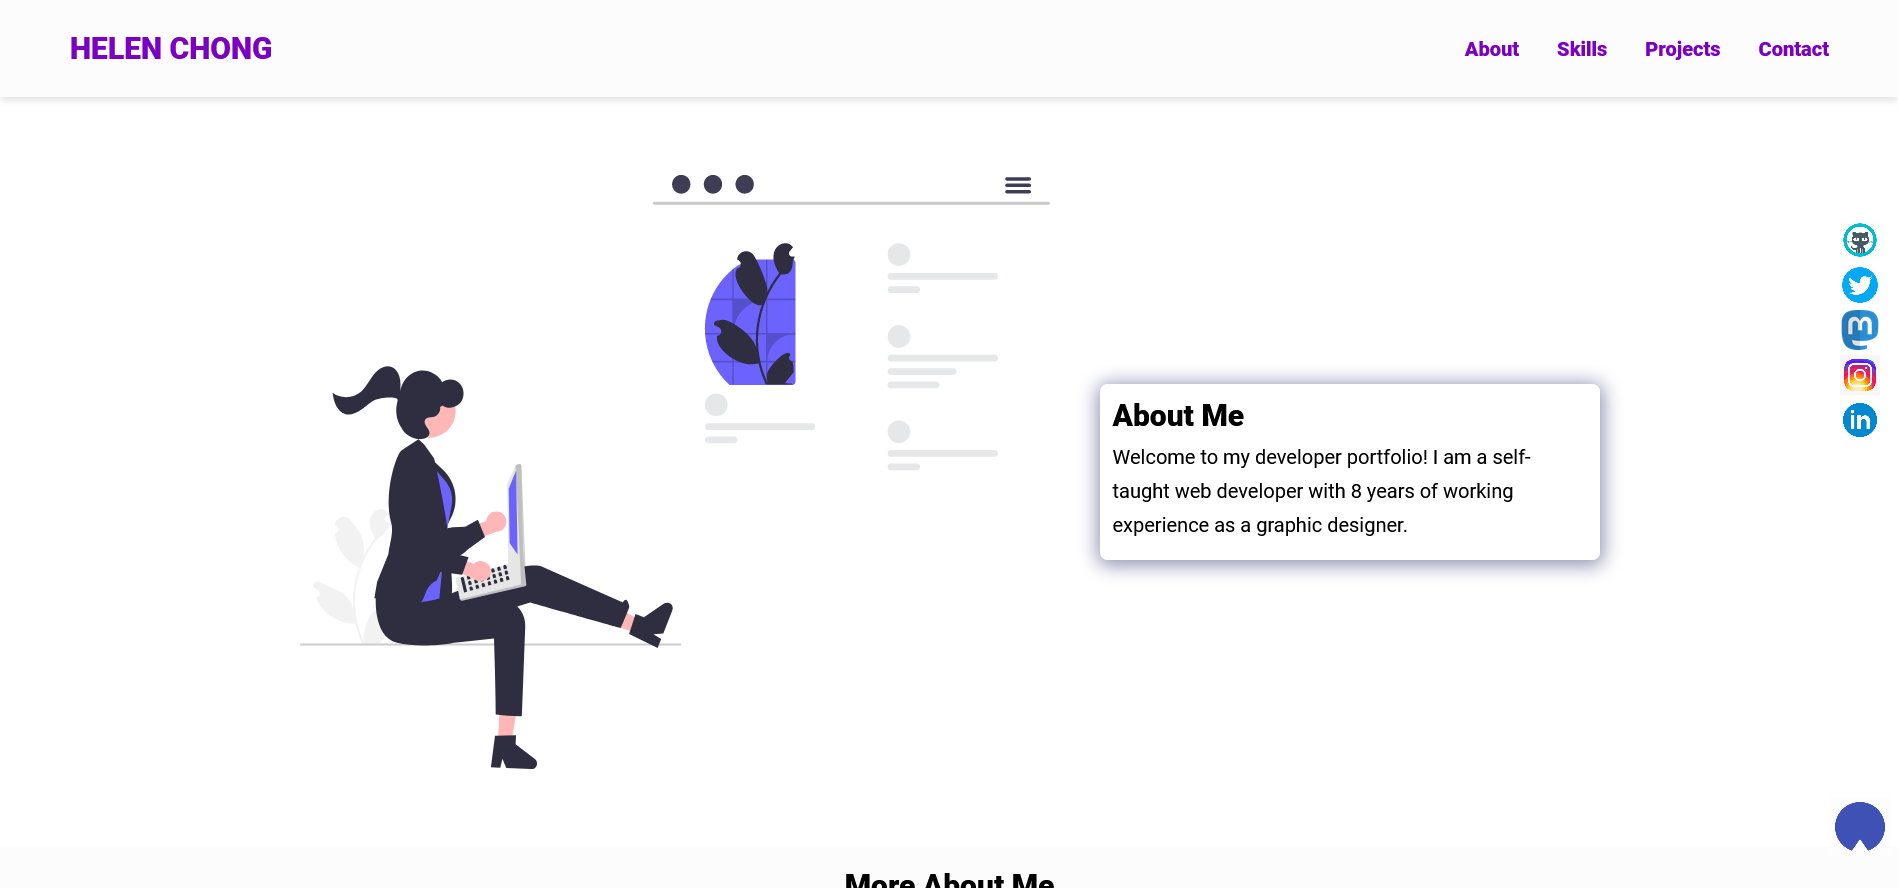
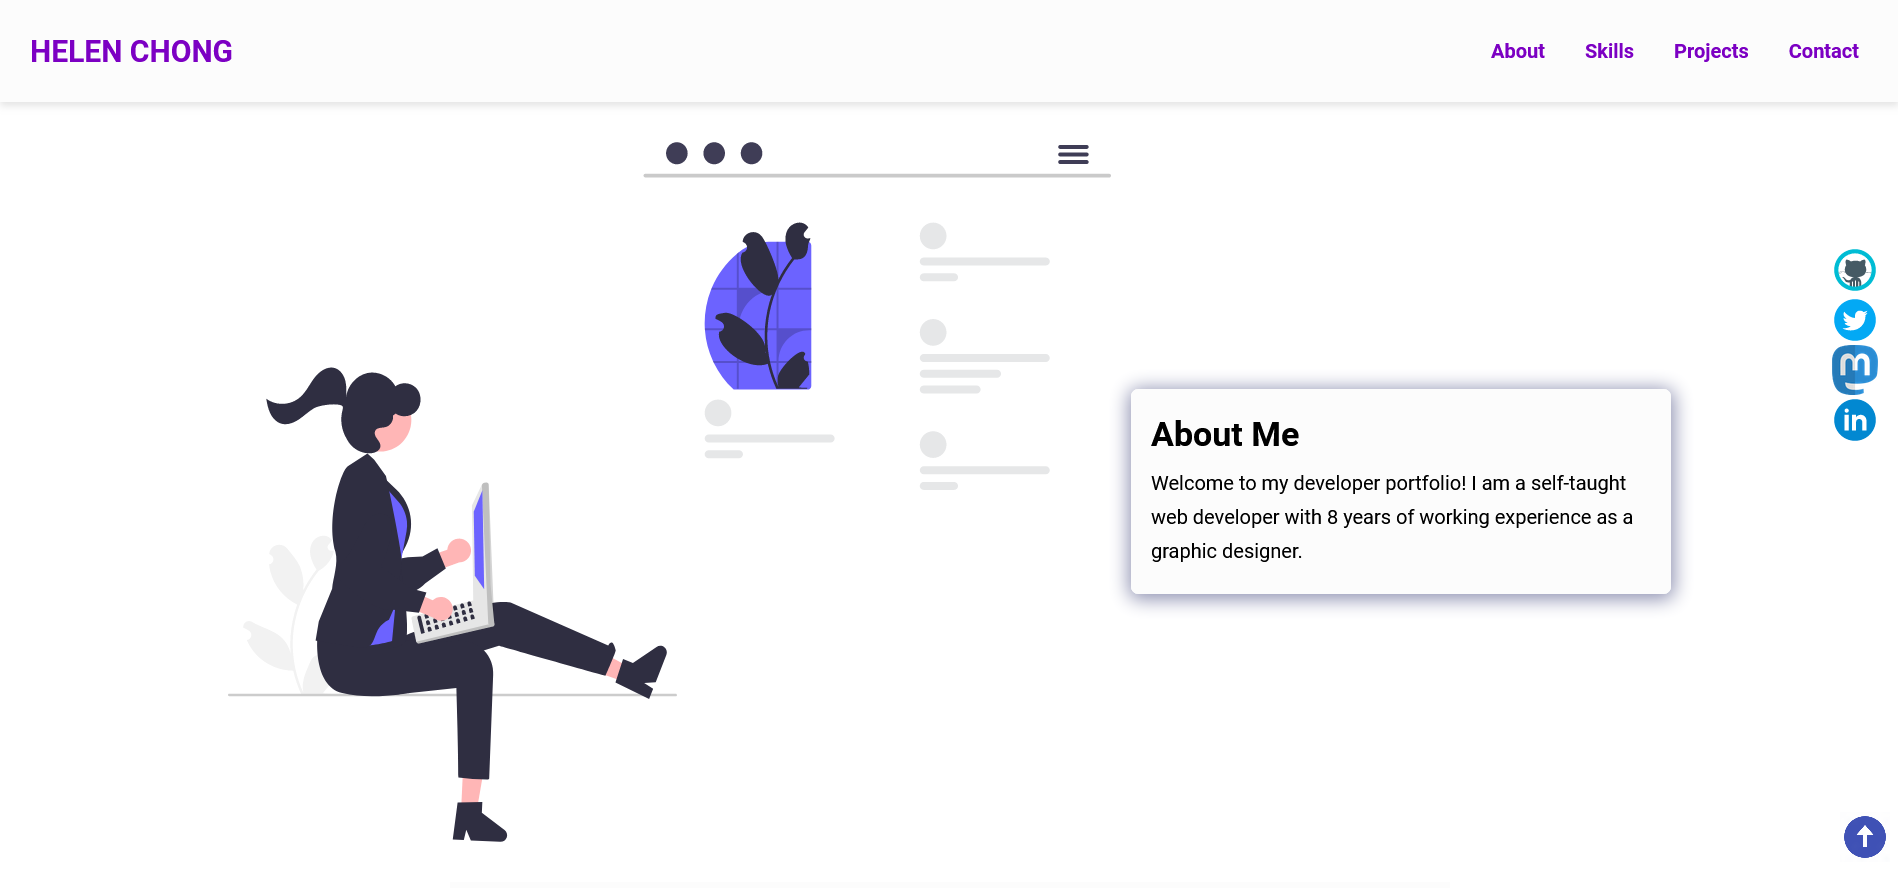
Adjusted hero section

diff --git a/assets/css/styles.css b/assets/css/styles.css
@@ -192,6 +192,7 @@ main {
     justify-content: center;
 	flex-direction: column;
     width: 100%;
+    padding-top: 2rem;
 }
 
 .hero img {
@@ -567,7 +568,7 @@ footer {
     }
 
     .bio {
-        min-width: 25rem;
+        min-width: 27rem;
     }
 
     .more-about {
